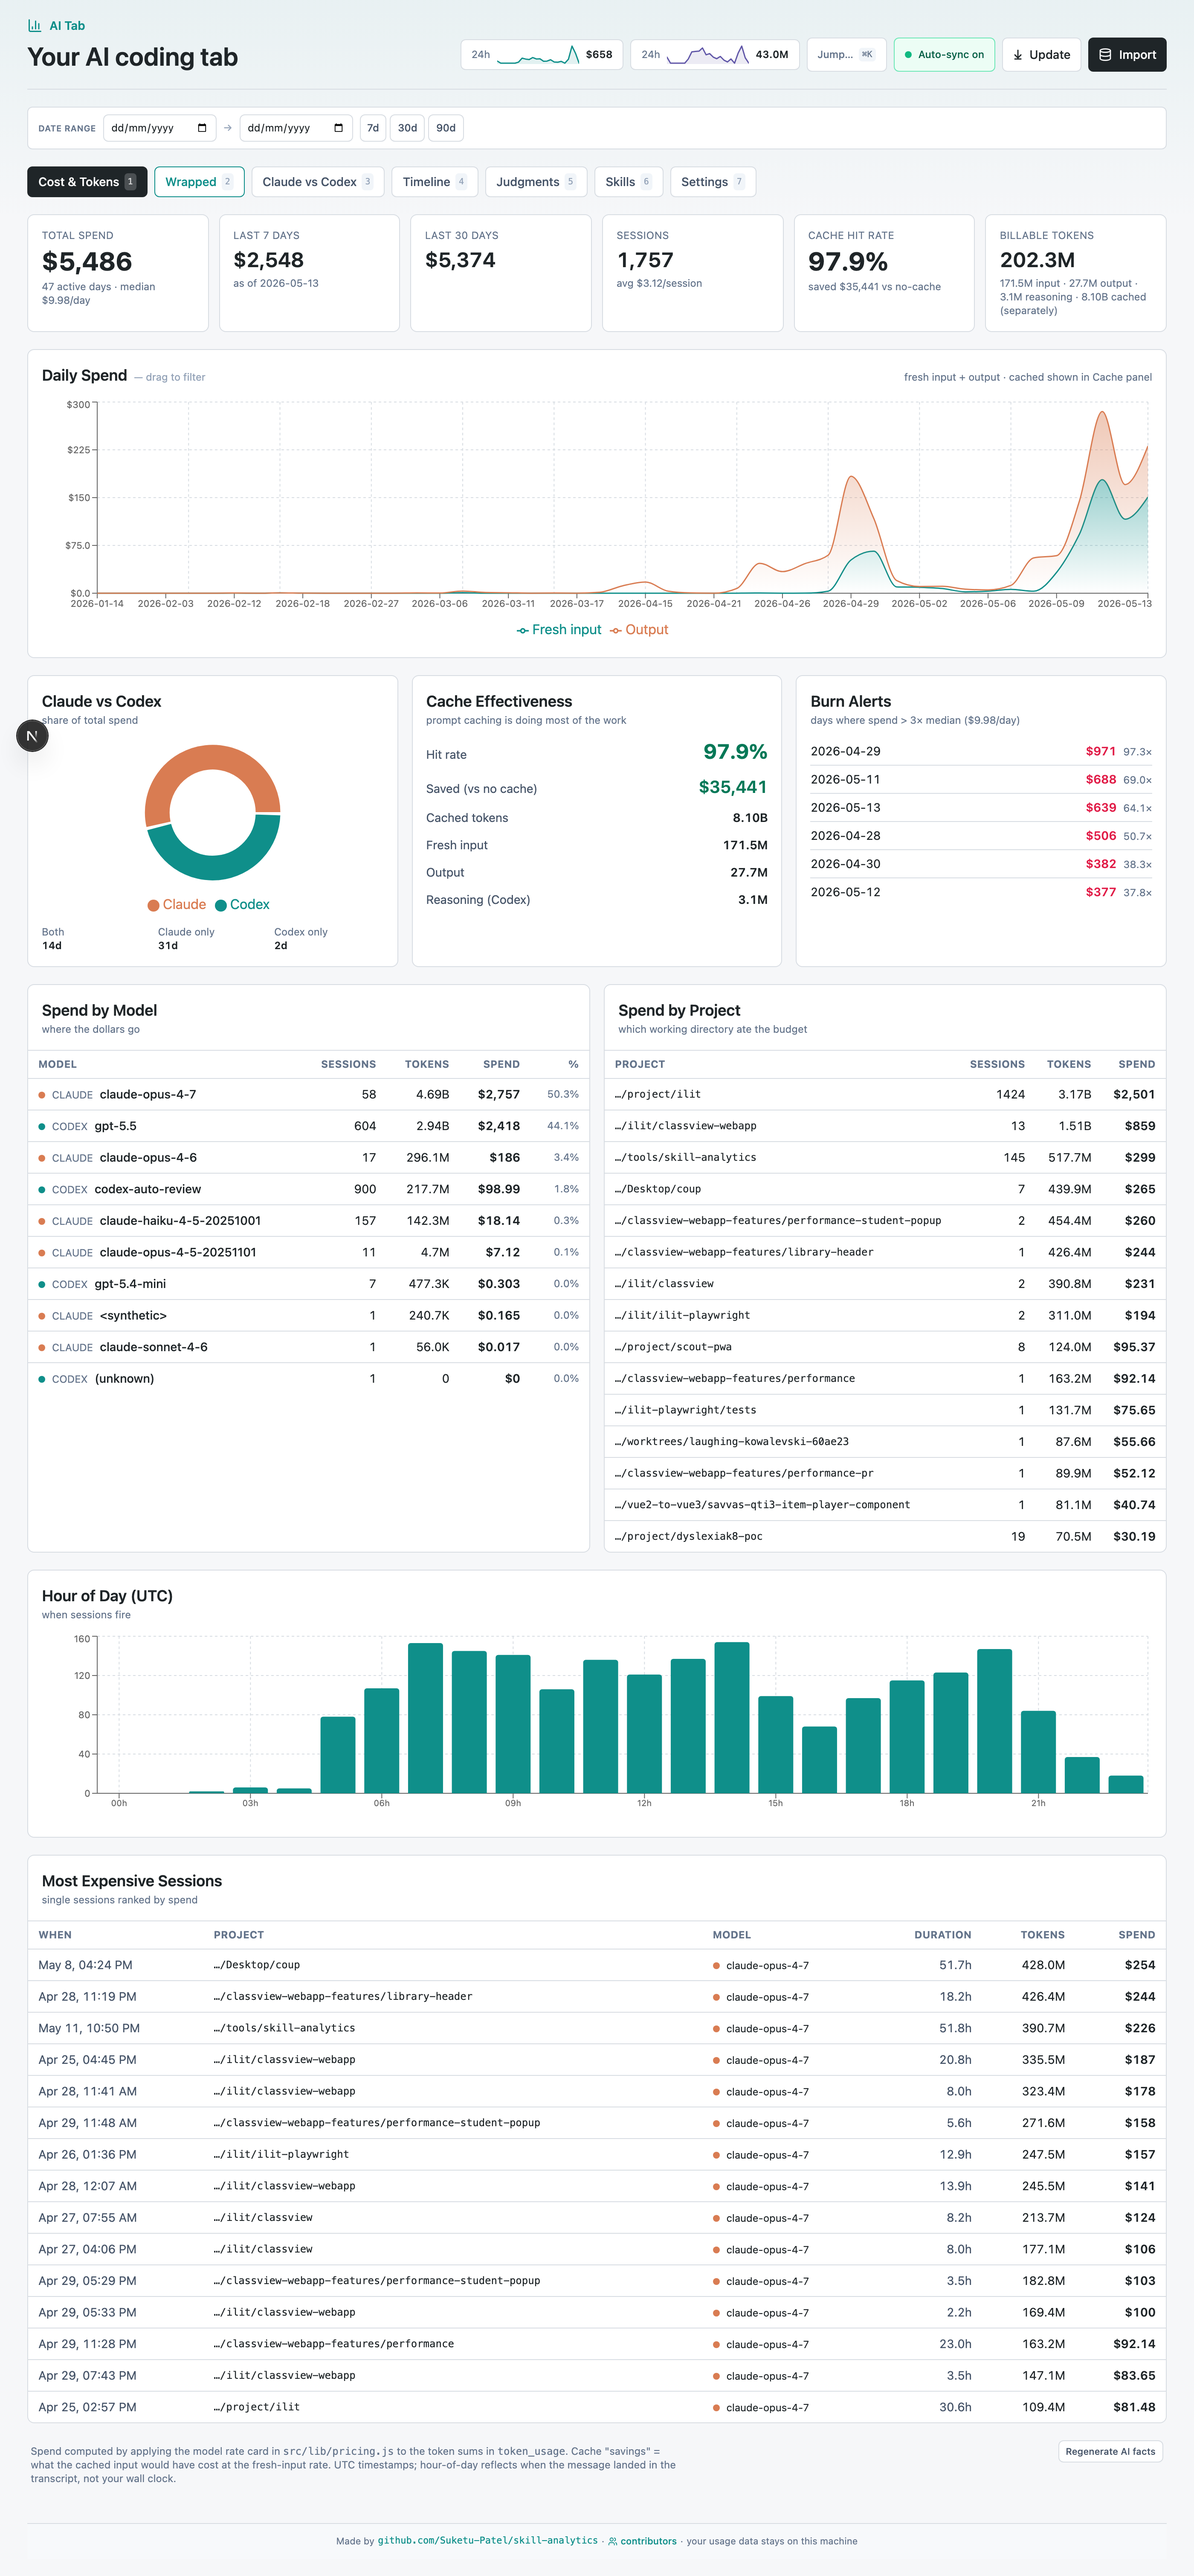
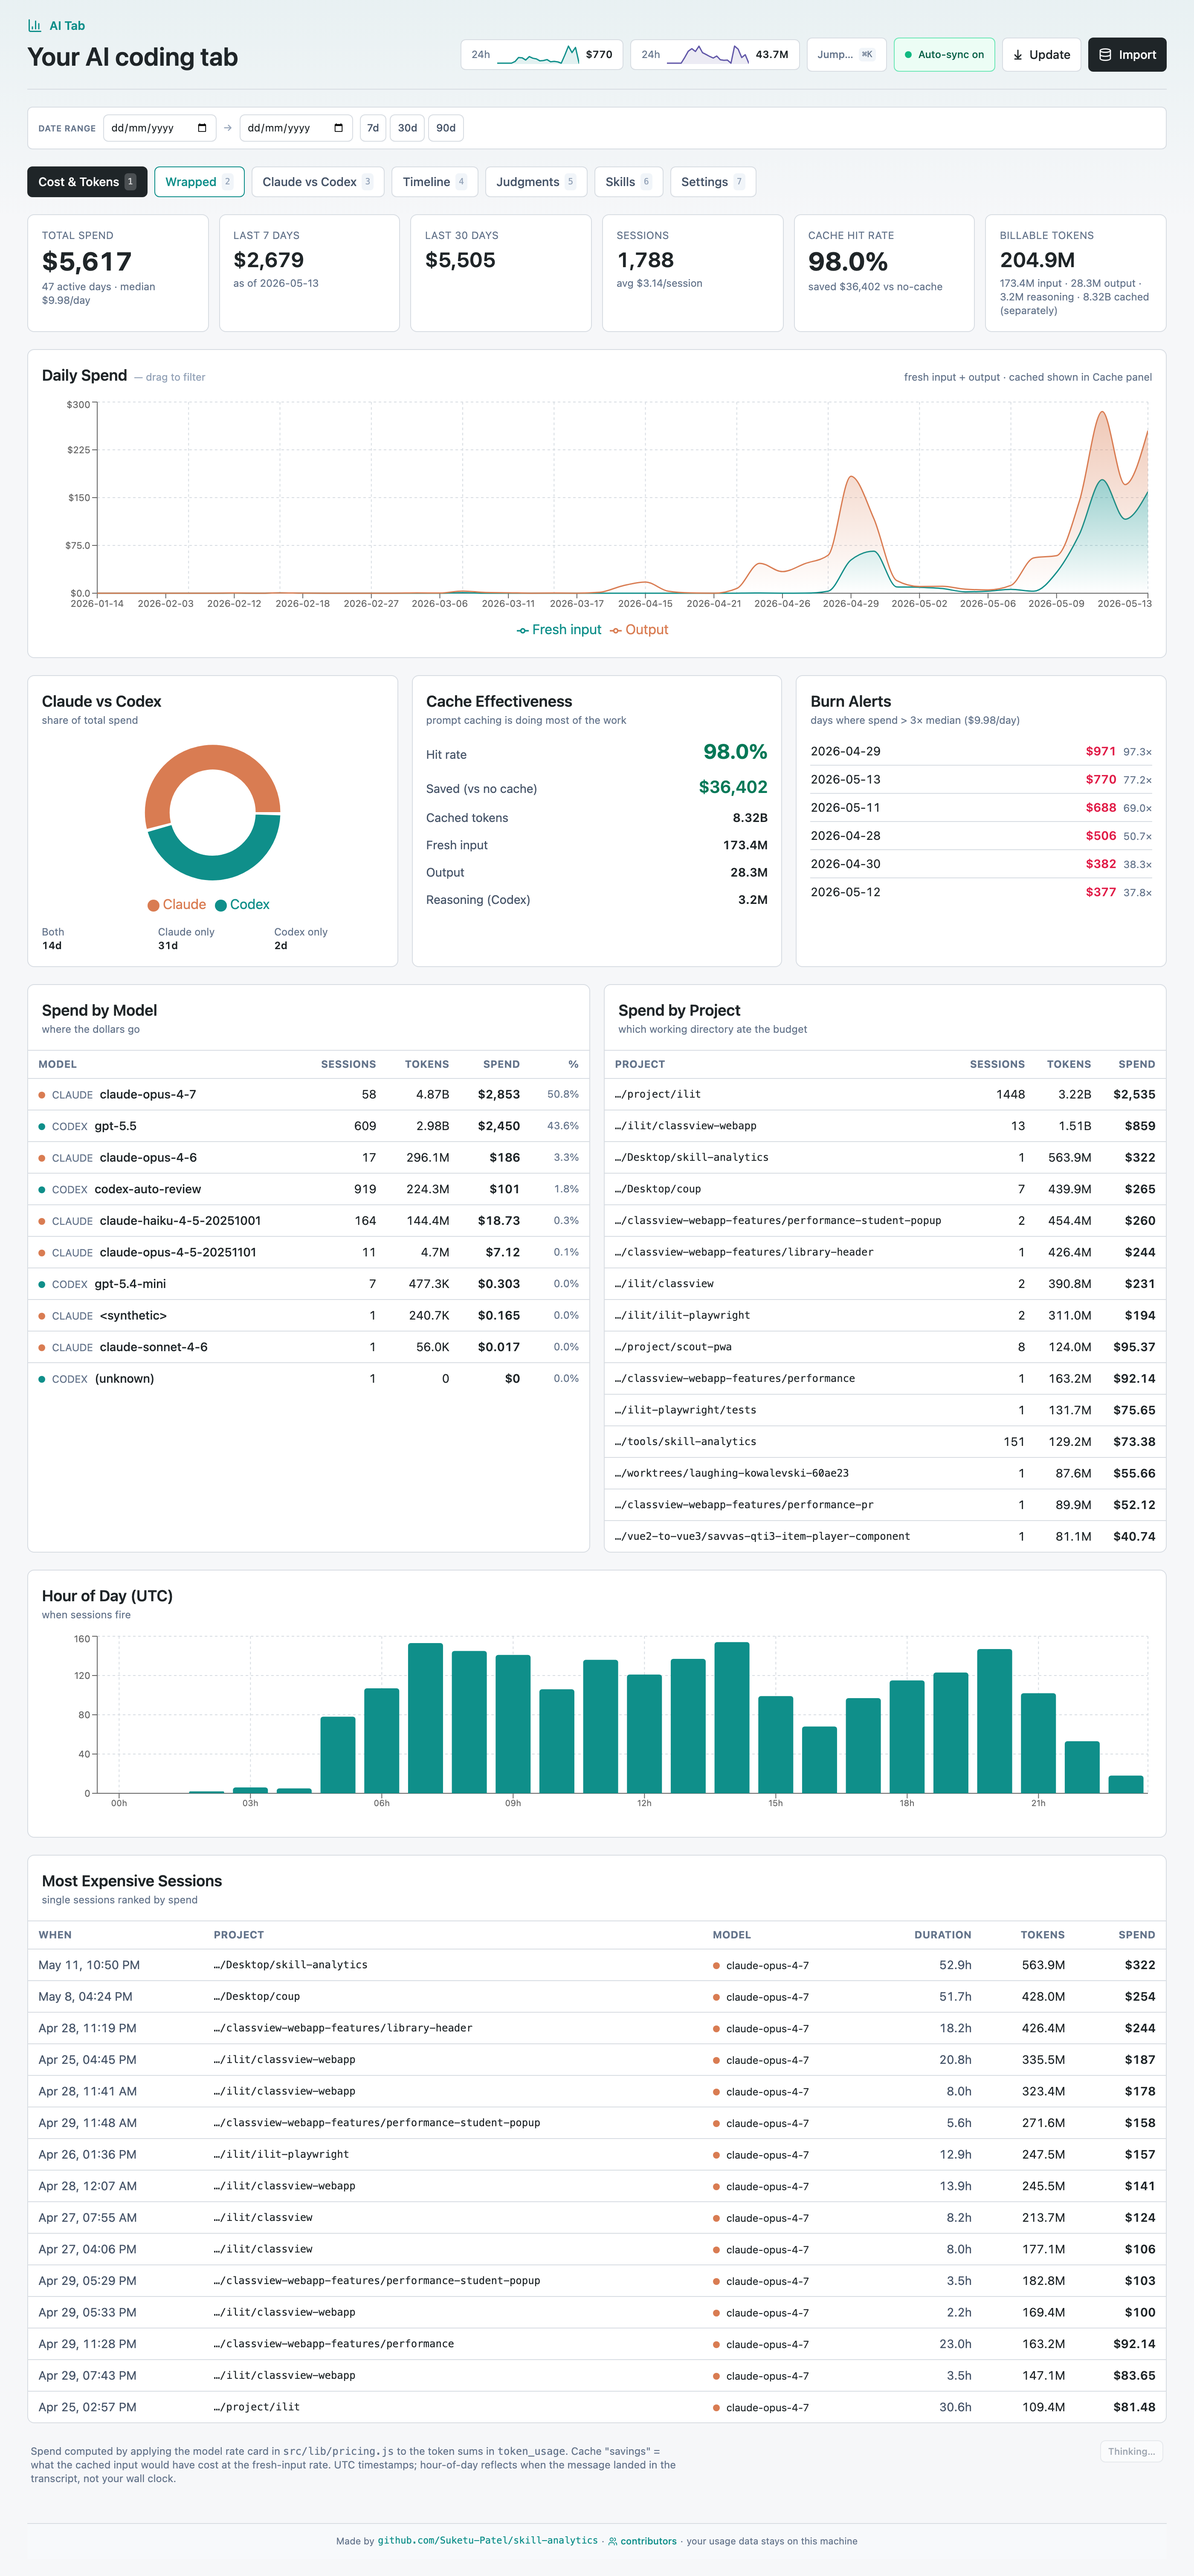
README: 3 hero screenshots + hide Next.js dev indicator
- Trim README to 3 hero shots (Cost & Tokens, Wrapped, Comparison).
  Drop Timeline / Skills / Settings — the three remaining tell the
  product story without the grid feeling crowded.
- next.config.mjs: `devIndicators: false` — hides the bottom-left
  "N▴" dev-mode badge that was bleeding into every screenshot.
- Re-captured all three at 1400×900 @2x with the indicator off.

diff --git a/README.md b/README.md
@@ -5,26 +5,15 @@ Your AI coding tab — a local **Next.js dashboard** that tracks **cost, tokens,
 The center stage is "Cost & Tokens": daily spend, model leaderboards, project breakdowns, hour-of-day patterns, burn alerts, and AI-generated reality-check facts. A shareable **Wrapped** tab pulls the highlights into a clean side-by-side card layout you can screenshot. Optional **Judgments** tab runs Haiku-as-judge over your invocations with a Codex tiebreaker.
 
 ![Cost & Tokens — the default landing tab](docs/screenshots/01-cost-overview.png)
+*Cost & Tokens — daily spend, cache savings, model & project breakdowns, expensive sessions.*
+
+![Wrapped — shareable card](docs/screenshots/02-wrapped.png)
+*Wrapped — side-by-side Codex / Claude card with cache savings, worst burn day, top model, and a region-aware AI tidbit. Made to screenshot.*
+
+![Claude vs Codex vs Cursor](docs/screenshots/03-comparison.png)
+*Three-way comparison — totals scoreboard, daily activity, daily token usage, per-source model lists.*
 
 http://127.0.0.1:4210/
-
----
-
-## Screenshots
-
-<table>
-<tr>
-<td width="50%"><b>Wrapped</b> — shareable year-in-review card<br/><img src="docs/screenshots/02-wrapped.png" alt="Wrapped tab" /></td>
-<td width="50%"><b>Claude vs Codex vs Cursor</b> — three-way comparison<br/><img src="docs/screenshots/03-comparison.png" alt="Comparison tab" /></td>
-</tr>
-<tr>
-<td><b>Timeline</b> — token + cost flow over time<br/><img src="docs/screenshots/04-timeline.png" alt="Timeline tab" /></td>
-<td><b>Skills</b> — invocation health + errors + cost-per-skill<br/><img src="docs/screenshots/05-skills.png" alt="Skills tab" /></td>
-</tr>
-<tr>
-<td colspan="2"><b>Settings</b> — theme, region-aware AI tidbits, per-source visibility, hidden tabs, pricing accuracy refresh<br/><img src="docs/screenshots/06-settings.png" alt="Settings tab" /></td>
-</tr>
-</table>
 
 ---
 
